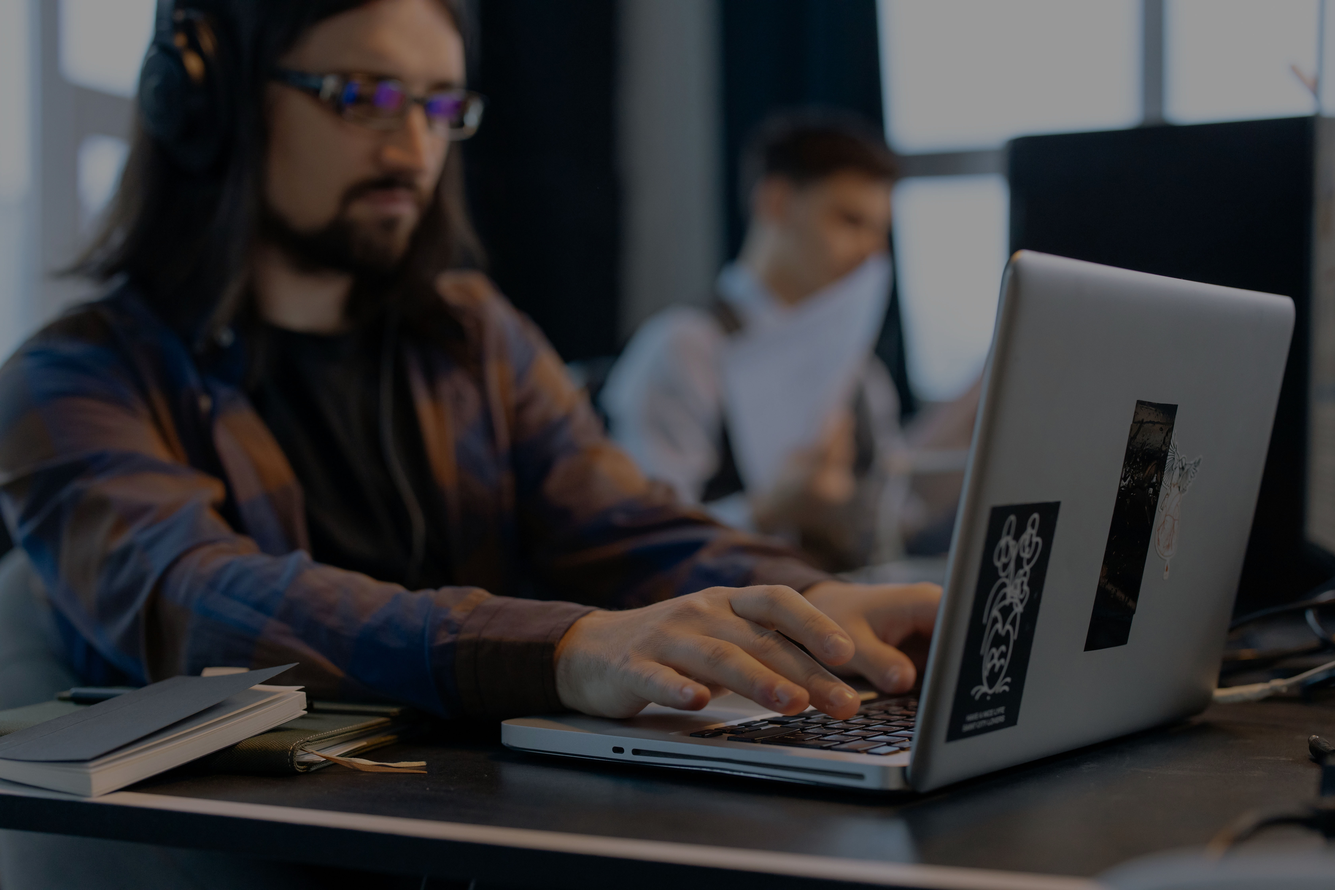
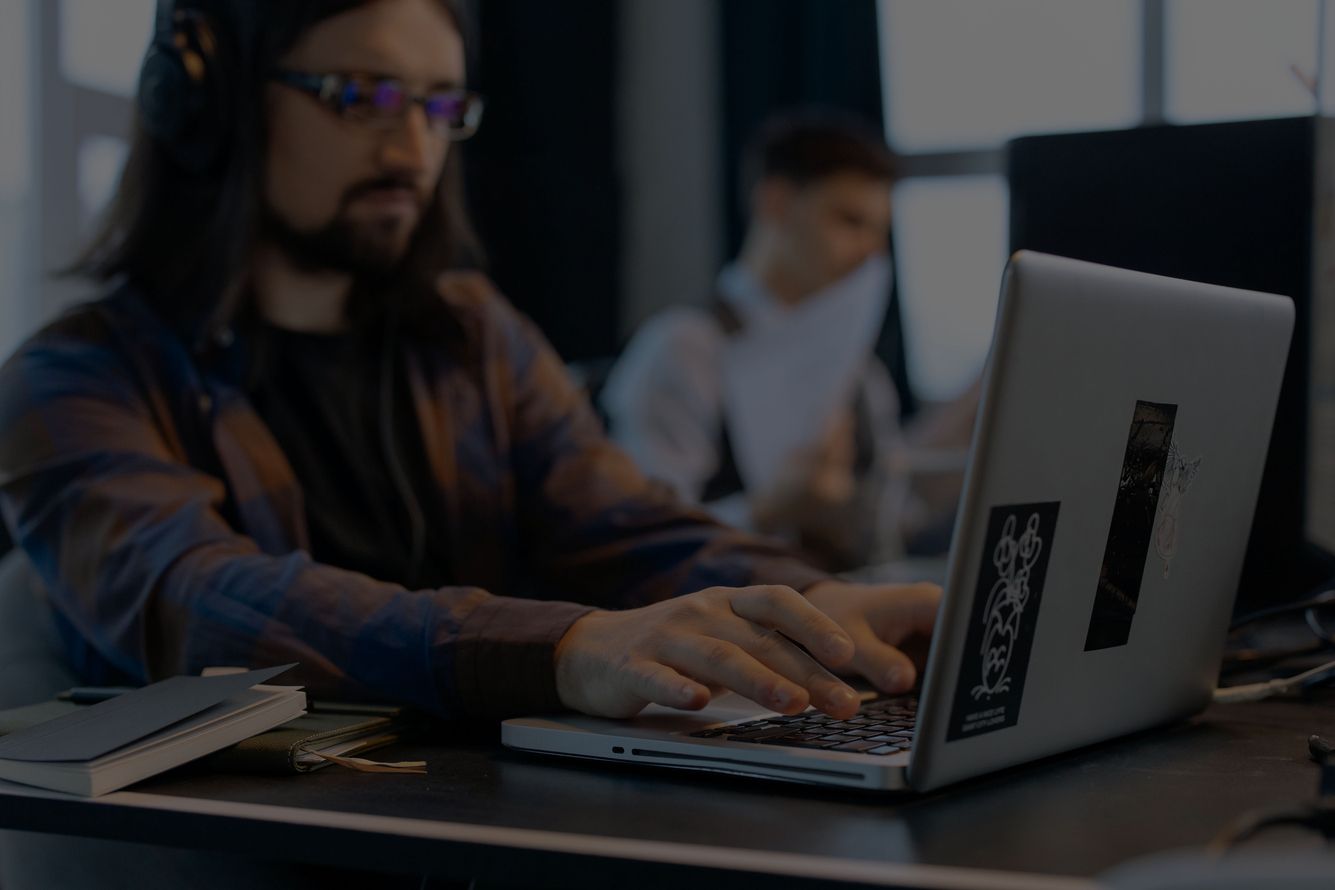
feat: changed main background, implemented contacts via socials

diff --git a/src/components/contactUs/contactUs.jsx b/src/components/contactUs/contactUs.jsx
@@ -1,0 +1,18 @@
+import {ContactUsWrapper, SocialIcon, SocialWrapper} from "./styled";
+import {PrimaryButton} from "../buttons/primary/primaryButton";
+import linkedinIcon from '../../assets/linkedin.svg';
+import telegramIcon from '../../assets/telegram.svg';
+
+export const ContactUs = () => {
+    return (
+        <ContactUsWrapper>
+            <PrimaryButton>Contact Us</PrimaryButton>
+            <SocialWrapper href={'https://linkedin.com/company/ifortex'} target={'_blank'}>
+                <SocialIcon src={linkedinIcon}/>
+            </SocialWrapper>
+            <SocialWrapper href={'https://t.me/Blackened1990'} target={'_blank'}>
+                <SocialIcon src={telegramIcon}/>
+            </SocialWrapper>
+        </ContactUsWrapper>
+    );
+}

diff --git a/src/pages/contacts/contacts.jsx b/src/pages/contacts/contacts.jsx
@@ -1,7 +1,7 @@
 import {useEffect} from "react";
 import {ContactTitle, Description, SlideWrapper} from "./styled";
 import {ContentWrapper} from "../main/styled";
-import {PrimaryButton} from "../../components/buttons/primary/primaryButton";
+import {ContactUs} from "../../components/contactUs/contactUs";
 
 export const Contacts = () => {
 
@@ -19,7 +19,7 @@ export const Contacts = () => {
           <br/>
           Our team is available to answer any questions and provide a quote for your project. We look forward to helping you bring your digital vision to life. Contact us today!
         </Description>
-        <PrimaryButton>Contact Us</PrimaryButton>
+        <ContactUs/>
       </ContentWrapper>
     </SlideWrapper>
   );

diff --git a/src/components/reviewsCarousel/reviewsCarousel.jsx b/src/components/reviewsCarousel/reviewsCarousel.jsx
@@ -8,7 +8,6 @@ import {
 import {Carousel} from "react-responsive-carousel";
 import "react-responsive-carousel/lib/styles/carousel.min.css";
 import quotes from '../../assets/double_quotes.svg';
-import {isMobile} from "react-device-detect";
 
 export const Review = ({avatar, title, description}) => {
   return (
@@ -40,9 +39,9 @@ export const ReviewsCarousel = () => {
         showStatus={false}
         showArrows={false}
         showIndicators={true}
-        interval={5000}
+        interval={4000}
         centerMode={true}
-        centerSlidePercentage={isMobile ? 100 : 100}
+        centerSlidePercentage={100}
       >
         <Review
           avatar={'https://www.w3schools.com/howto/img_avatar.png'}

diff --git a/src/components/contactUs/styled.js b/src/components/contactUs/styled.js
@@ -1,0 +1,32 @@
+import styled from "styled-components";
+
+const ContactUsWrapper = styled.div`
+  display: flex;
+  align-items: center;
+  gap: 20px;
+`;
+
+const SocialWrapper = styled.a`
+  width: 64px;
+  height: 64px;
+  min-height: 40px;
+  min-width: 40px;
+  transition: 0.5s;
+  
+  :hover {
+    cursor: pointer;
+    transform: scale(1.05);
+  }
+`;
+
+const SocialIcon = styled.img`
+    width: 100%;
+    height: 100%;
+    object-fit: contain;
+`;
+
+export {
+    ContactUsWrapper,
+    SocialWrapper,
+    SocialIcon
+}

diff --git a/src/components/buttons/primary/styled.js b/src/components/buttons/primary/styled.js
@@ -1,5 +1,4 @@
 import styled from 'styled-components';
-
 const ButtonWrapper = styled.a`
   width: 260px;
   height: 64px;
